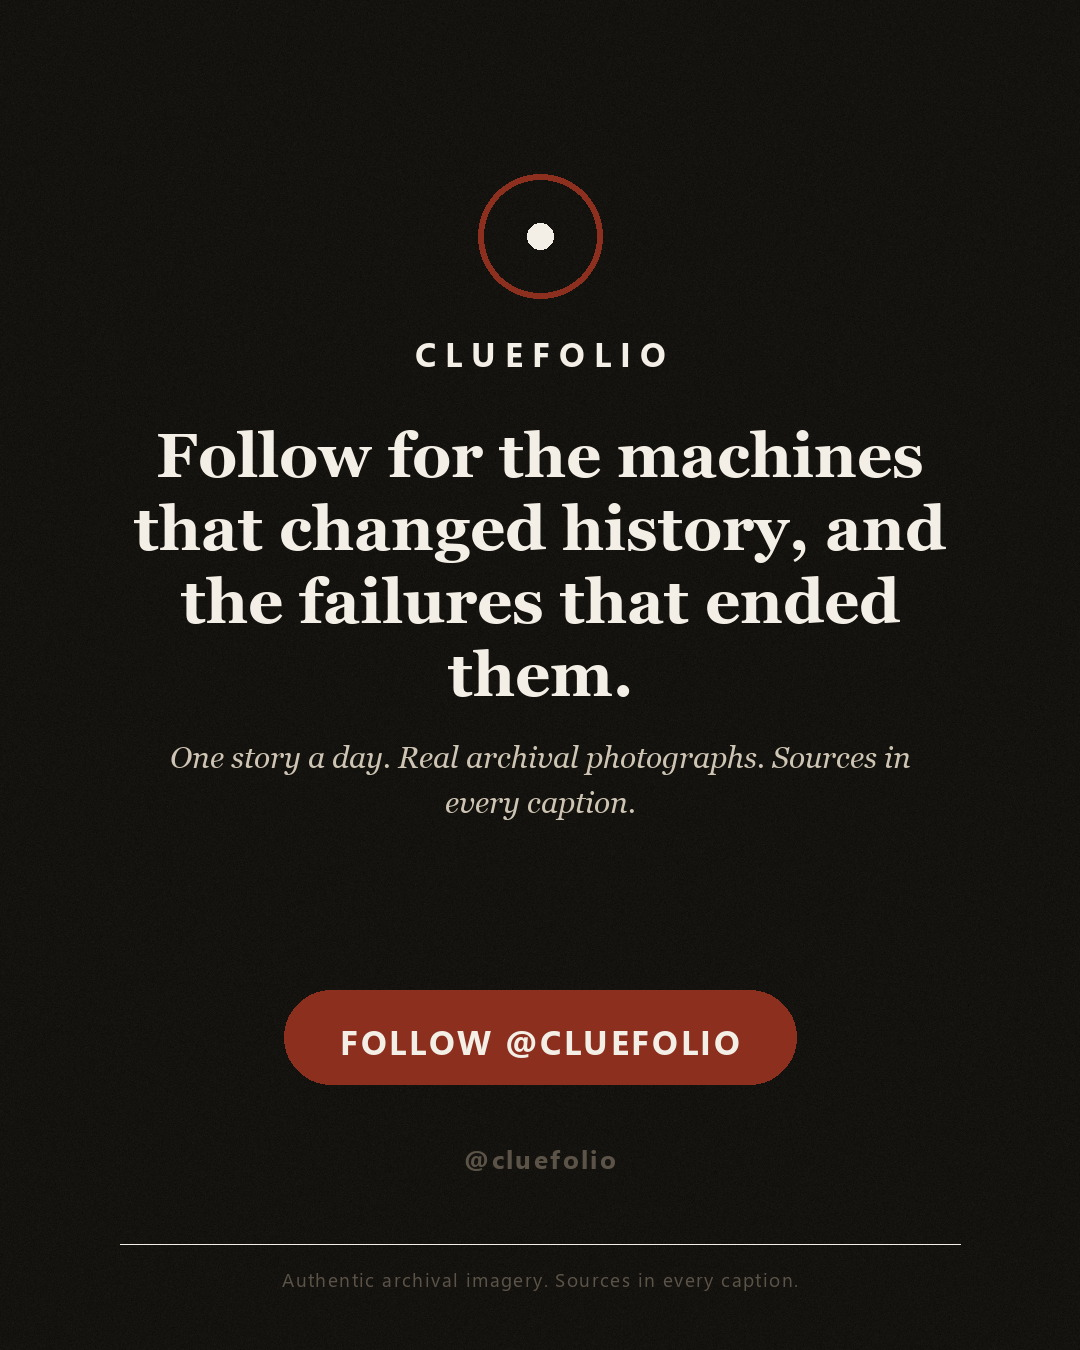
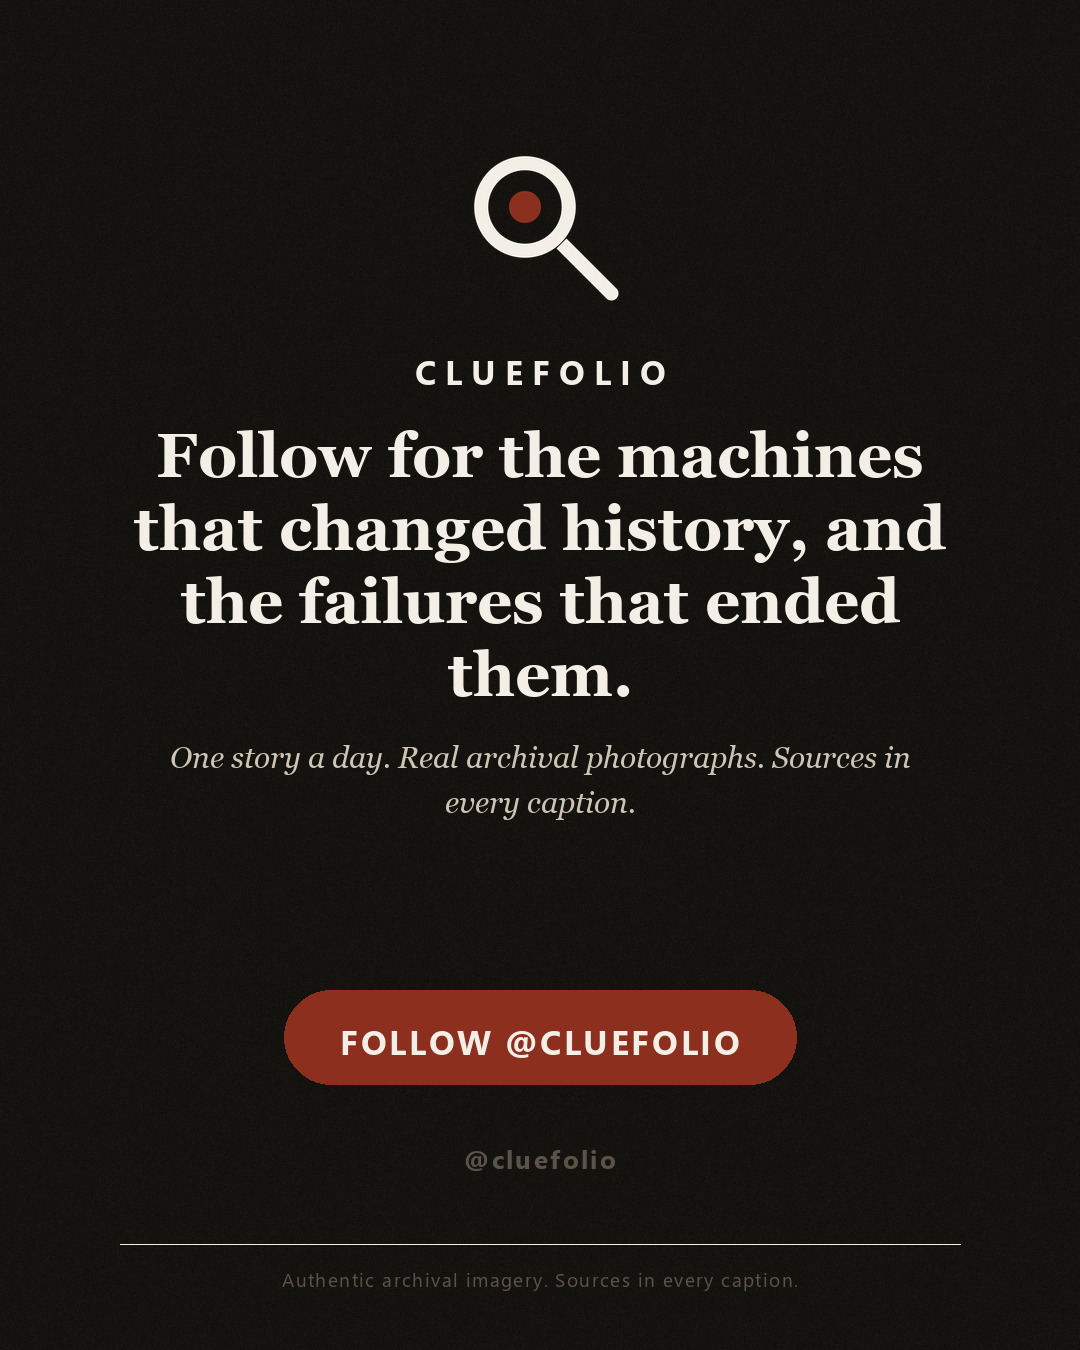
feat: brand mark on the closing card; reposition the slate across six content pillars

Changed region(s): [[0.4278, 0.0933, 0.5806, 0.2178], [0.3667, 0.2489, 0.6111, 0.28]]

diff --git a/scripts/make_logo.py b/scripts/make_logo.py
@@ -1,0 +1,72 @@
+#!/usr/bin/env python3
+"""Generate the Cluefolio brand mark.
+
+A magnifier: the ring is the lens, the diagonal is the handle, the dot is the
+clue being found. It reads at 48 px in a feed and at 512 px on a closing card.
+
+Writes two transparent PNGs:
+    brand/logo-mark-light.png   paper-coloured, for dark backgrounds
+    brand/logo-mark-dark.png    ink-coloured, for paper backgrounds
+
+Usage:
+    python scripts/make_logo.py
+"""
+
+from __future__ import annotations
+
+from pathlib import Path
+
+from PIL import Image, ImageDraw
+
+ROOT = Path(__file__).resolve().parent.parent
+BRAND = ROOT / "brand"
+
+PAPER = (244, 239, 230)
+INK = (21, 19, 15)
+ACCENT = (140, 47, 30)
+
+SIZE = 1024
+SCALE = 4  # supersample, then downscale for clean edges
+
+
+def draw_mark(colour: tuple[int, int, int]) -> Image.Image:
+    s = SIZE * SCALE
+    img = Image.new("RGBA", (s, s), (0, 0, 0, 0))
+    d = ImageDraw.Draw(img)
+
+    # Lens: a ring occupying the upper-left of the canvas.
+    cx, cy = s * 0.42, s * 0.42
+    r = s * 0.27
+    width = int(s * 0.075)
+    d.ellipse([cx - r, cy - r, cx + r, cy + r], outline=(*colour, 255), width=width)
+
+    # Handle: a thick diagonal out of the lower-right of the ring.
+    hx0, hy0 = cx + r * 0.72, cy + r * 0.72
+    hx1, hy1 = s * 0.88, s * 0.88
+    d.line([(hx0, hy0), (hx1, hy1)], fill=(*colour, 255), width=width)
+    d.ellipse(
+        [hx1 - width / 2, hy1 - width / 2, hx1 + width / 2, hy1 + width / 2],
+        fill=(*colour, 255),
+    )
+
+    # The clue: a filled dot inside the lens, offset to imply search.
+    dr = s * 0.085
+    d.ellipse([cx - dr, cy - dr, cx + dr, cy + dr], fill=(*ACCENT, 255))
+
+    return img.resize((SIZE, SIZE), Image.LANCZOS)
+
+
+def main() -> int:
+    BRAND.mkdir(exist_ok=True)
+    for name, colour in (("logo-mark-light.png", PAPER), ("logo-mark-dark.png", INK)):
+        out = BRAND / name
+        draw_mark(colour).save(out, "PNG")
+        print(f"  OK  {out.relative_to(ROOT)}  {out.stat().st_size:,} bytes")
+    favicon = BRAND / "logo-mark.png"
+    draw_mark(INK).save(favicon, "PNG")
+    print(f"  OK  {favicon.relative_to(ROOT)}")
+    return 0
+
+
+if __name__ == "__main__":
+    raise SystemExit(main())

diff --git a/scripts/render_post.py b/scripts/render_post.py
@@ -444,15 +444,21 @@ def render_cta(cfg, item, out_path: Path) -> None:
     canvas = paper_texture(Image.new("RGB", (W, H), ink), 0.008, seed=5)
     draw = ImageDraw.Draw(canvas)
 
-    # Brand mark: a ring with a paper dot, drawn once, used everywhere.
-    cx, cy, r = W // 2, 236, 62
-    draw.ellipse([cx - r, cy - r, cx + r, cy + r], outline=accent, width=6)
-    draw.ellipse([cx - 13, cy - 13, cx + 13, cy + 13], fill=paper)
+    # Brand mark. Falls back to a drawn ring if the asset is missing.
+    logo_path = ROOT / "brand" / "logo-mark-light.png"
+    mark_size = 188
+    if logo_path.exists():
+        mark = Image.open(logo_path).convert("RGBA").resize((mark_size, mark_size), Image.LANCZOS)
+        canvas.paste(mark, ((W - mark_size) // 2, 128), mark)
+    else:
+        cx, cy, r = W // 2, 222, 62
+        draw.ellipse([cx - r, cy - r, cx + r, cy + r], outline=accent, width=6)
+        draw.ellipse([cx - 13, cy - 13, cx + 13, cy + 13], fill=paper)
 
     f_mark = load_font(SEGOE_SEMI, 34)
     wordmark = "CLUEFOLIO"
     ww = tracked_width(draw, wordmark, f_mark, tracking=9.0)
-    draw_tracked(draw, (W // 2 - ww / 2, 330), wordmark, f_mark, paper, tracking=9.0)
+    draw_tracked(draw, (W // 2 - ww / 2, 348), wordmark, f_mark, paper, tracking=9.0)
 
     f_head = load_font(GEORGIA_BOLD, 62)
     headline = item.get("headline", "Follow for the disasters the textbooks skip.")

diff --git a/brand/growth-playbook.md b/brand/growth-playbook.md
@@ -22,15 +22,44 @@ audience makes every subsequent post perform worse.
 
 Not "history facts". That space is saturated with text-on-color garbage.
 
-**Cluefolio is the account that makes you say "how did I never know this?" and
-then shows you the photograph.**
+**Cluefolio is the account that makes you say "how did I never know this?" —
+about murders, disappearances, disasters, buried cases, and the people who
+walked out alive — and then shows you the document or the photograph.**
 
 Three commitments, applied to every post:
 
 1. **One impossible fact in the first line.** No setup, no throat-clearing.
 2. **Authentic imagery only.** The archive is the differentiator. No AI covers.
 3. **A receipt.** Sources in the first comment, every time. This is the trust
-   asset that makes saves and shares safe.
+   asset that makes saves and shares safe — and it is what separates a true
+   crime account that survives from one that gets reported.
+
+## 2.1 Content pillars and mix
+
+Disaster-only is a narrow, saturated lane. Cluefolio runs six pillars, mixed
+every week so the account never reads as single-topic:
+
+| Pillar | Cover tag | Share of slate | Why it earns its slot |
+|---|---|---|---|
+| True crime / murder | MURDER | 25% | Highest save and comment rates; needs the strictest ethics |
+| Unsolved mystery | MYSTERY | 20% | Curiosity gap is the strongest hook we have |
+| Disaster / tragedy | DISASTER | 20% | The existing archive; strongest authentic imagery |
+| Survival / near-miss | SURVIVAL | 15% | Hope beat; widens the audience beyond grim content |
+| Hidden case / cover-up | COVER-UP | 10% | Institutional failure drives shares |
+| Weird / unexplained | WEIRD | 10% | The shareable oddity; keeps the feed from feeling heavy |
+
+Weekly rotation, five posts: **Mon** true crime, **Tue** mystery, **Wed**
+disaster, **Thu** survival, **Fri** hidden case or weird. Never two of the
+same pillar back to back.
+
+True-crime rules, non-negotiable:
+
+- Name the victim, not only the perpetrator. The story is theirs.
+- No crime-scene imagery, no bodies, no blood. Documents, places, portraits.
+- Never name someone as guilty without a conviction. "Charged", "accused",
+  "convicted" are different words and must be used precisely.
+- No detail that exists only to shock.
+- If a family has publicly asked for privacy, the post does not run.
 
 ## 3. Format: the 7-slide carousel
 
@@ -123,20 +152,24 @@ from a single enforcement event is larger than any growth they produce.
 
 | Week | Output | Focus |
 |---|---|---|
-| 1 | 5 posts, 7 slides each | Cover quality. Test three headline shapes. |
-| 2 | 5 posts | Slide-7 save mechanics. Timeline and "what changed" plates. |
+| 1 | 5 posts: MURDER, MYSTERY, DISASTER, SURVIVAL, WEIRD | Cover quality. Test three headline shapes. |
+| 2 | 5 posts, one per pillar | Slide-7 save mechanics. Timeline and "what changed" plates. |
 | 3 | 5 posts | Keyword and alt-text discipline. Measure search reach. |
-| 4 | 5 posts | Clone the best performer's structure twice. |
+| 4 | 5 posts | Clone the best performer's structure twice, keeping the pillar mix. |
 
-Twenty posts. At five per week, that is one month of autonomous publishing,
-with a weekly approval click on the `production` gate.
+Twenty posts across six pillars. At five per week, that is one month of
+autonomous publishing, with a weekly approval click on the `production` gate.
 
 ## 10. Content spec
 
 Every pack pushed to `content/<slug>/` must contain:
 
 - `post-metadata.json` with `status: "ready"` only when the pack is publishable.
-- `images/` with **7 finished slides**, named `01-cover.jpg` … `07-close.jpg`.
+- `images/` with **7 finished slides**, named `01-cover.jpg` … `07-follow.jpg`.
+  Slide 7 is the branded close: logo, wordmark, follow button. It is generated
+  automatically from the `cta` block in `render-config.json`.
+- A cover tag from the pillar table: MURDER, MYSTERY, DISASTER, SURVIVAL,
+  COVER-UP, or WEIRD.
 - Caption with the keyword inside the first 125 characters.
 - Alt text describing each slide for screen readers.
 - Source ledger referenced by the pinned comment.
